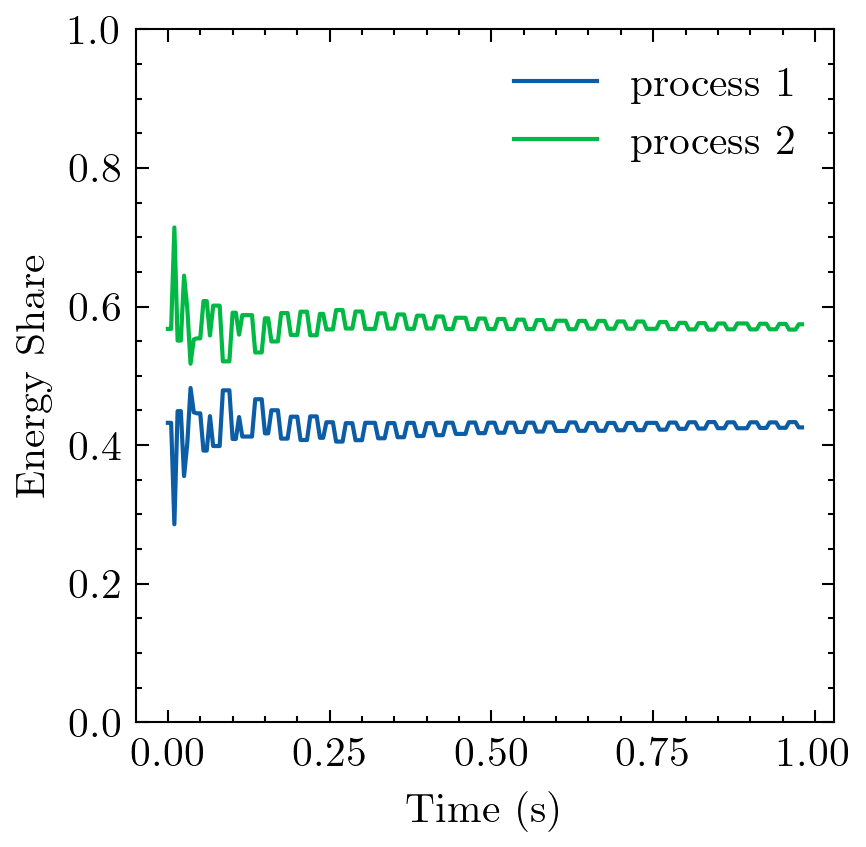
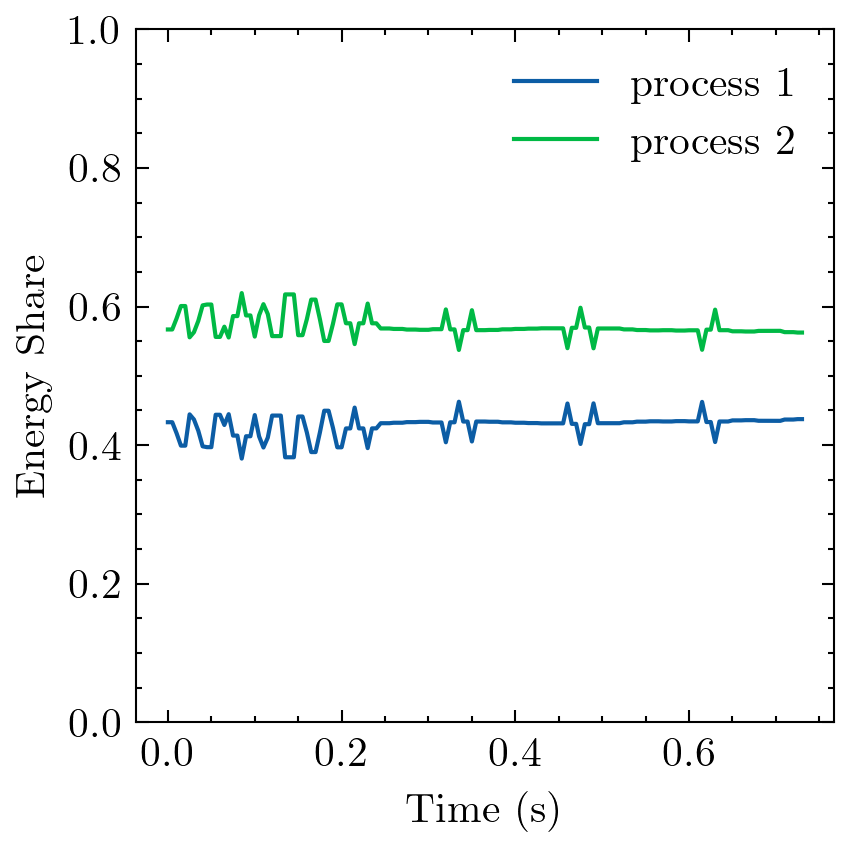
update graphs

diff --git a/efs_test/plot_graph.py b/efs_test/plot_graph.py
@@ -93,7 +93,7 @@ def plot_timeshare_graph(sched_type, interval):
         #     float(line.split(",")[5]) / float(line.split(",")[1]) for line in lines
         # ]
 
-        lines_with_shifted_by_ten = list(zip(lines, lines[20:]))
+        lines_with_shifted_by_ten = list(zip(lines, lines[50:]))
 
         timesteps = [
             interval * i / 1000000 for i in range(0, len(lines_with_shifted_by_ten))
@@ -126,7 +126,7 @@ def plot_energy_share_graph(sched_type, interval):
     with open(file, "r") as f:
         lines = f.readlines()
 
-        lines_with_shifted_by_ten = list(zip(lines, lines[20:]))
+        lines_with_shifted_by_ten = list(zip(lines, lines[50:]))
 
         timesteps = [
             interval * i / 1000000 for i in range(0, len(lines_with_shifted_by_ten))
